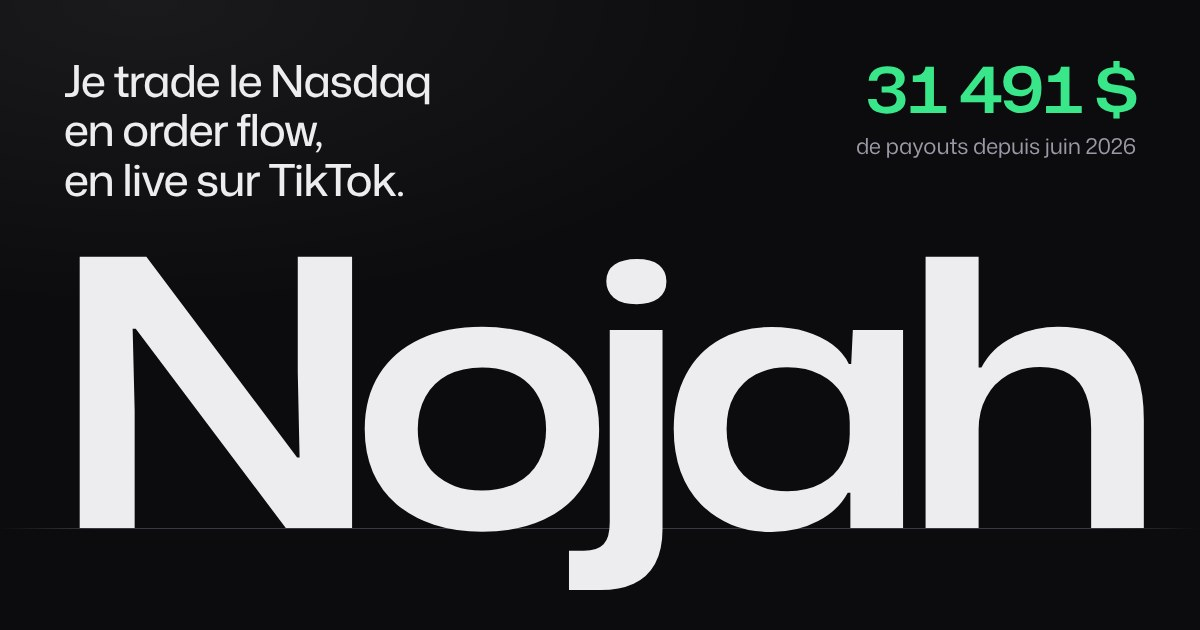
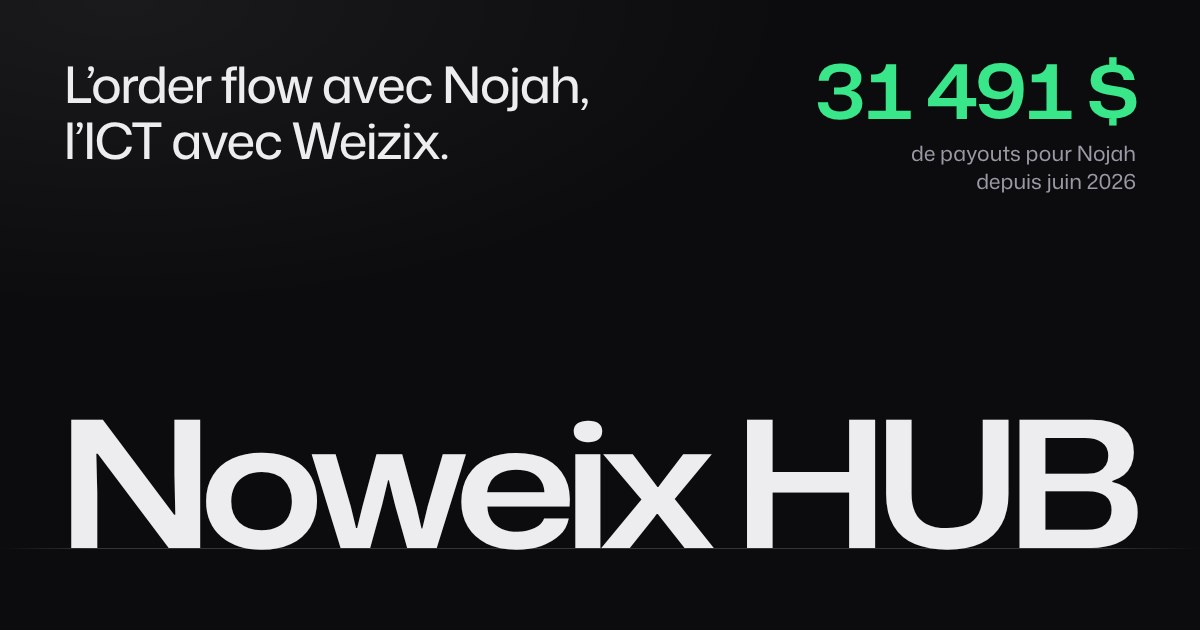
Le site devient Noweix HUB, avec Nojah (order flow) et Weizix (ICT)
- Nom Noweix HUB dans l'onglet, l'en-tête, le grand nom (sur deux lignes sur téléphone), la communauté Telegram et le pied de page ; même lien.
- En haut : « L'order flow avec Nojah, l'ICT avec Weizix ».
- Les parties de Johan sont à son nom : ses payouts, ses certificats, le lien FTMO, le clipping de ses lives, sa série et ses vidéos.
- « Qui je suis » devient « Qui on est », avec Nojah et Weizix.
- Nouvelle image de partage (og.jpg), README et ancien lien de l'aperçu mis à jour.

Claude-Session: https://claude.ai/code/session_01LeMKDTQYz8SVkbojz6z9WF

diff --git a/index.html b/index.html
@@ -3,8 +3,8 @@
 <head>
 <meta charset="utf-8">
 <meta name="viewport" content="width=device-width, initial-scale=1, viewport-fit=cover">
-<title>Nojah, trader funded</title>
-<meta name="description" content="Je trade le Nasdaq en order flow, en live sur TikTok. 31 491 $ de payouts depuis juin 2026. Rejoins Nojah HUB, ma communauté sur Telegram.">
+<title>Noweix HUB, avec Nojah et Weizix</title>
+<meta name="description" content="L’order flow avec Nojah, l’ICT avec Weizix. Nojah trade le Nasdaq en live sur TikTok : 31 491 $ de payouts depuis juin 2026. Rejoins Noweix HUB, notre communauté sur Telegram.">
 <link rel="canonical" href="https://azulixnq.github.io/nojah/">
 <meta name="theme-color" content="#0C0C0F">
 <meta name="color-scheme" content="dark">
@@ -12,12 +12,12 @@
 <meta property="og:type" content="website">
 <meta property="og:locale" content="fr_FR">
 <meta property="og:url" content="https://azulixnq.github.io/nojah/">
-<meta property="og:title" content="Nojah, trader funded">
-<meta property="og:description" content="Je trade le Nasdaq en order flow, en live sur TikTok. Rejoins Nojah HUB, ma communauté sur Telegram.">
+<meta property="og:title" content="Noweix HUB, avec Nojah et Weizix">
+<meta property="og:description" content="L’order flow avec Nojah, l’ICT avec Weizix. Rejoins Noweix HUB, notre communauté sur Telegram.">
 <meta property="og:image" content="https://azulixnq.github.io/nojah/og.jpg">
 <meta property="og:image:width" content="1200">
 <meta property="og:image:height" content="630">
-<meta property="og:image:alt" content="Nojah : je trade le Nasdaq en order flow, en live sur TikTok.">
+<meta property="og:image:alt" content="Noweix HUB : l’order flow avec Nojah, l’ICT avec Weizix.">
 <meta name="twitter:card" content="summary_large_image">
 <link rel="icon" href="favicon.svg" type="image/svg+xml">
 <link rel="apple-touch-icon" href="apple-touch-icon.png">
@@ -51,8 +51,9 @@
   --maxw: 1520px;
   --head: 64px;
   --sec: clamp(80px, 9vw, 152px);
-  /* taille du nom : toute la largeur, sans jamais dépasser la hauteur de l’écran (jambage du j compris) */
-  --name: clamp(84px, min((min(100vw, var(--maxw)) - 2 * var(--gutter) - 16px) / 2.9, (82svh - var(--head) - 100px) / 1.145), 600px);
+  /* taille du nom : « Noweix HUB » (6,1 em) sur toute la largeur, sans jamais dépasser la hauteur de l’écran ;
+     sur téléphone, il passe sur deux lignes (voir « petits écrans ») */
+  --name: clamp(56px, min((min(100vw, var(--maxw)) - 2 * var(--gutter) - 16px) / 6.1, (82svh - var(--head) - 100px) / 1.145), 600px);
   --ease: cubic-bezier(.16, 1, .3, 1);
   color-scheme: dark;
 }
@@ -127,6 +128,7 @@ button.btn { cursor: pointer; }
   margin-right: auto;
   font-size: 20px; font-weight: 600; font-stretch: 125%;
   letter-spacing: -.03em; line-height: 1; text-decoration: none;
+  white-space: nowrap;
 }
 .social { display: flex; gap: 2px; margin: 0; padding: 0; list-style: none; }
 .social a {
@@ -187,6 +189,7 @@ button.btn { cursor: pointer; }
 .hero-copy > :nth-child(2) { animation-delay: .62s; }
 @keyframes draw { from { transform: scaleX(0); } }
 @keyframes rise { from { transform: translateY(1.35em); } }
+@keyframes rise2 { from { transform: translateY(2.3em); } }
 @keyframes fade { from { opacity: 0; transform: translateY(12px); } }
 
 /* ---------- sections ---------- */
@@ -412,7 +415,9 @@ html.has-viewer .wall-row.is-on .wall-track { animation-play-state: paused; }
 .p-handle { grid-column: 2; color: var(--muted); font-size: 15px; }
 .profiles a:hover .p-name { text-decoration: underline; text-decoration-thickness: 1px; text-underline-offset: 5px; }
 
-/* ---------- qui je suis ---------- */
+/* ---------- qui on est ---------- */
+.duo { display: grid; gap: 56px 32px; }
+.who-name { margin-bottom: 16px; font-size: clamp(24px, 1vw + 18px, 32px); font-weight: 560; font-stretch: 112%; letter-spacing: -.025em; line-height: 1.15; }
 .facts { display: grid; margin: 0; border-top: 1px solid var(--line); }
 .facts > div { padding: 20px 0; border-bottom: 1px solid var(--line); }
 .facts dt { color: var(--faint); font-size: 14px; }
@@ -464,6 +469,8 @@ html.has-viewer { overflow: hidden; }
   .profiles li + li a { border-left: 1px solid var(--line); }
   .profiles li:first-child a { padding-left: 0; }
   .facts { grid-template-columns: repeat(3, minmax(0, 1fr)); }
+  .duo { grid-template-columns: repeat(2, minmax(0, 1fr)); column-gap: clamp(32px, 4vw, 72px); }
+  .who .facts { grid-template-columns: repeat(2, minmax(0, 1fr)); }
 }
 @media (min-width: 960px) {
   .serie-grid { grid-template-columns: minmax(0, 1fr) auto; align-items: start; gap: clamp(56px, 8vw, 160px); }
@@ -502,6 +509,12 @@ html.has-viewer { overflow: hidden; }
   .bgwall { --wall-w: 160px; }
   .bgwall-rows { opacity: .26; }
 }
+@media (max-width: 639px) {
+  :root { --name: clamp(60px, (100vw - 2 * var(--gutter) - 16px) / 3.7, 240px); }
+  .name { line-height: .9; }
+  .name-w { display: block; }
+  .name-text { animation-name: rise2; }
+}
 @media (max-width: 560px) {
   body { font-size: 16px; }
   .plot-wrap { padding-right: 66px; }
@@ -513,7 +526,7 @@ html.has-viewer { overflow: hidden; }
   .ep p { grid-column: 1; }
   .end .btn { flex: 1 1 100%; }
 }
-@media (max-width: 380px) {
+@media (max-width: 440px) {
   .top .btn-text { display: none; }
   .top .btn { padding: 8px 11px; }
 }
@@ -545,34 +558,34 @@ html.has-viewer { overflow: hidden; }
 
 <header class="top">
   <div class="wrap top-in">
-    <a class="brand" href="#haut">Nojah</a>
-    <nav aria-label="Mes réseaux">
+    <a class="brand" href="#haut">Noweix&nbsp;HUB</a>
+    <nav aria-label="Les réseaux de Nojah">
       <ul class="social">
         <li><a href="https://www.tiktok.com/@nojahonorderflow" target="_blank" rel="noopener"><svg class="ico" aria-hidden="true"><use href="#i-tiktok"/></svg><span>TikTok</span></a></li>
         <li><a href="https://www.instagram.com/fx_nojah" target="_blank" rel="noopener"><svg class="ico" aria-hidden="true"><use href="#i-instagram"/></svg><span>Instagram</span></a></li>
         <li><a href="https://www.youtube.com/@FXJohanBDX" target="_blank" rel="noopener"><svg class="ico" aria-hidden="true"><use href="#i-youtube"/></svg><span>YouTube</span></a></li>
       </ul>
     </nav>
-    <a class="btn btn-main" href="https://t.me/+zSf9D4ee_4w5NzM0" target="_blank" rel="noopener" aria-label="Rejoindre Nojah HUB, ma communauté sur Telegram"><svg class="ico" aria-hidden="true"><use href="#i-telegram"/></svg><span class="btn-text">Nojah HUB</span></a>
+    <a class="btn btn-main" href="https://t.me/+zSf9D4ee_4w5NzM0" target="_blank" rel="noopener" aria-label="Rejoindre Noweix HUB, notre communauté sur Telegram"><svg class="ico" aria-hidden="true"><use href="#i-telegram"/></svg><span class="btn-text">Rejoindre</span></a>
   </div>
 </header>
 
 <main id="contenu">
-  <!-- Le mur : mes certificats Lucid Trading qui défilent lentement en fond, du haut de la page jusque sous la courbe.
+  <!-- Le mur : les certificats Lucid Trading de Nojah qui défilent lentement en fond, du haut de la page jusque sous la courbe.
        Le script le remplit à partir de la liste .certs (plus bas), qui reste la source des montants et des dates. -->
   <div class="bgwall" id="bgwall" aria-hidden="true" hidden><div class="bgwall-rows"></div></div>
 
   <section class="hero" id="haut" aria-labelledby="nom">
     <div class="wrap hero-grid">
-      <h1 class="name" id="nom"><span class="name-clip"><span class="name-text">Nojah</span></span></h1>
+      <h1 class="name" id="nom"><span class="name-clip"><span class="name-text"><span class="name-w">Noweix</span> <span class="name-w">HUB</span></span></span></h1>
       <div class="hero-copy">
-        <p class="lead">Je trade le Nasdaq en order&nbsp;flow, en&nbsp;live sur TikTok.</p>
+        <p class="lead">L’order&nbsp;flow avec Nojah, l’ICT avec Weizix.</p>
         <div class="hero-cta">
           <div class="actions">
-            <a class="btn btn-main" href="https://t.me/+zSf9D4ee_4w5NzM0" target="_blank" rel="noopener"><svg class="ico" aria-hidden="true"><use href="#i-telegram"/></svg>Rejoindre Nojah HUB</a>
+            <a class="btn btn-main" href="https://t.me/+zSf9D4ee_4w5NzM0" target="_blank" rel="noopener"><svg class="ico" aria-hidden="true"><use href="#i-telegram"/></svg>Rejoindre Noweix&nbsp;HUB</a>
             <a class="btn btn-line" href="https://discord.gg/zVJuSdCjSG" target="_blank" rel="noopener"><svg class="ico" aria-hidden="true"><use href="#i-discord"/></svg>Discord de la communauté</a>
           </div>
-          <p class="actions-note">Nojah HUB, c’est ma communauté sur Telegram.</p>
+          <p class="actions-note">Noweix&nbsp;HUB, c’est notre communauté sur Telegram.</p>
         </div>
       </div>
     </div>
@@ -580,24 +593,24 @@ html.has-viewer { overflow: hidden; }
 
   <section class="sec payouts" aria-labelledby="payouts-titre">
     <div class="wrap">
-      <h2 class="h2" id="payouts-titre">Mes payouts</h2>
+      <h2 class="h2" id="payouts-titre">Les payouts de Nojah</h2>
       <div class="pay-head">
         <p class="total"><span class="sr">31&nbsp;491&nbsp;$</span><span class="total-num" aria-hidden="true"><span class="ghost">31&nbsp;491&nbsp;$</span><span class="live" id="total-live">31&nbsp;491&nbsp;$</span></span></p>
         <p class="total-sub">de payouts reçus depuis juin&nbsp;2026, toutes prop firms confondues.</p>
       </div>
 
       <figure class="chart">
-        <figcaption class="chart-cap"><strong>Lucid Trading</strong><span>Cumul de mes 11&nbsp;payouts, du 11&nbsp;juin au 20&nbsp;août&nbsp;2026</span></figcaption>
+        <figcaption class="chart-cap"><strong>Lucid Trading</strong><span>Cumul de ses 11&nbsp;payouts, du 11&nbsp;juin au 20&nbsp;août&nbsp;2026</span></figcaption>
         <div class="plot-wrap">
           <div class="plot" id="plot" tabindex="0" role="group" aria-roledescription="graphique"
-               aria-label="Courbe du cumul de mes payouts Lucid Trading : 1 165 $ le 11 juin 2026, puis 28 991 $ au 20 août 2026. Utilise les flèches gauche et droite pour parcourir les 11 payouts."></div>
+               aria-label="Courbe du cumul des payouts Lucid Trading de Nojah : 1 165 $ le 11 juin 2026, puis 28 991 $ au 20 août 2026. Utilise les flèches gauche et droite pour parcourir les 11 payouts."></div>
         </div>
-        <p class="chart-note">Sur les <span class="money">31&nbsp;491&nbsp;$</span>, <span class="money">28&nbsp;991&nbsp;$</span> viennent de Lucid Trading, prouvés par mes 11&nbsp;certificats. Les <span class="money">2&nbsp;500&nbsp;$</span> restants viennent d’autres prop firms.</p>
+        <p class="chart-note">Sur les <span class="money">31&nbsp;491&nbsp;$</span>, <span class="money">28&nbsp;991&nbsp;$</span> viennent de Lucid Trading, prouvés par ses 11&nbsp;certificats. Les <span class="money">2&nbsp;500&nbsp;$</span> restants viennent d’autres prop firms.</p>
         <p class="chart-more" id="certs-more" hidden><button class="btn btn-line" type="button" id="certs-open">Voir les 11&nbsp;certificats</button></p>
       </figure>
 
       <div class="certs-head">
-        <h3 class="h3">Mes certificats Lucid Trading</h3>
+        <h3 class="h3">Ses certificats Lucid Trading</h3>
         <p>Ouvre un certificat pour le voir en grand.</p>
       </div>
       <!-- Captures de l’app Lucid Trading, seulement recadrées : les dates et montants viennent des certificats. -->
@@ -622,9 +635,9 @@ html.has-viewer { overflow: hidden; }
     <div class="wrap trio">
       <section class="cell" aria-labelledby="communaute-titre">
         <h2 class="h2" id="communaute-titre">La communauté</h2>
-        <p>Deux portes d’entrée&nbsp;: Nojah HUB, ma communauté sur Telegram, et le Discord de la communauté.</p>
+        <p>Deux portes d’entrée&nbsp;: Noweix&nbsp;HUB, notre communauté sur Telegram, et le Discord de la communauté.</p>
         <div class="cell-actions">
-          <a class="btn btn-main" href="https://t.me/+zSf9D4ee_4w5NzM0" target="_blank" rel="noopener"><svg class="ico" aria-hidden="true"><use href="#i-telegram"/></svg>Rejoindre Nojah HUB</a>
+          <a class="btn btn-main" href="https://t.me/+zSf9D4ee_4w5NzM0" target="_blank" rel="noopener"><svg class="ico" aria-hidden="true"><use href="#i-telegram"/></svg>Rejoindre Noweix&nbsp;HUB</a>
           <a class="btn btn-line" href="https://discord.gg/zVJuSdCjSG" target="_blank" rel="noopener"><svg class="ico" aria-hidden="true"><use href="#i-discord"/></svg>Discord de la communauté</a>
         </div>
       </section>
@@ -633,7 +646,7 @@ html.has-viewer { overflow: hidden; }
         <h2 class="h2" id="ftmo-titre">Passe funded toi aussi</h2>
         <p class="off" aria-hidden="true">−20&nbsp;%</p>
         <p class="off-what">sur ton challenge FTMO</p>
-        <p>Passe par mon lien et ton challenge te coûte 20&nbsp;% moins cher. J’ai validé les deux étapes du challenge FTMO, le Challenge et la Vérification, en novembre&nbsp;2026.</p>
+        <p>Passe par le lien de Nojah et ton challenge te coûte 20&nbsp;% moins cher. Nojah a validé les deux étapes du challenge FTMO, le Challenge et la Vérification, en novembre&nbsp;2026.</p>
         <div class="cell-actions">
           <a class="btn btn-line" href="https://join.ftmo.com/SnUMuuJKSUnsmcjlAEpE" target="_blank" rel="noopener sponsored">Profiter des −20&nbsp;%</a>
         </div>
@@ -641,8 +654,8 @@ html.has-viewer { overflow: hidden; }
       </section>
 
       <section class="cell" aria-labelledby="clips-titre">
-        <h2 class="h2" id="clips-titre">Clippe mes lives</h2>
-        <p>Je partage les rushs de mes lives sur mon serveur Discord Clipping FxNojah. Tu en fais des clips, tu les postes, et tu es payé selon tes vues.</p>
+        <h2 class="h2" id="clips-titre">Clippe les lives de Nojah</h2>
+        <p>Nojah partage les rushs de ses lives sur le serveur Discord Clipping FxNojah. Tu en fais des clips, tu les postes, et tu es payé selon tes vues.</p>
         <ol class="steps">
           <li><span><strong>Rejoins le serveur</strong>, c’est gratuit.</span></li>
           <li><span><strong>Fais vérifier ton compte</strong> en ouvrant un ticket.</span></li>
@@ -659,12 +672,12 @@ html.has-viewer { overflow: hidden; }
     <div class="wrap serie-grid">
       <div class="serie-copy">
         <h2 class="h2" id="serie-titre">1&nbsp;week-end =&nbsp;1&nbsp;setup order&nbsp;flow</h2>
-        <p class="intro">Ma série order flow&nbsp;: chaque week-end, un setup expliqué en une vidéo.</p>
+        <p class="intro">La série order flow de Nojah&nbsp;: chaque week-end, un setup expliqué en une vidéo.</p>
         <ol class="episodes">
           <li class="ep">
             <span class="ep-num">Épisode 1</span>
             <span class="ep-title">L’absorption</span>
-            <p>Beaucoup d’achats au marché, et pourtant le prix ne passe pas&nbsp;: un vendeur à limite encaisse tout. Je te montre comment la repérer et comment trier les signaux.</p>
+            <p>Beaucoup d’achats au marché, et pourtant le prix ne passe pas&nbsp;: un vendeur à limite encaisse tout. Nojah te montre comment la repérer et comment trier les signaux.</p>
           </li>
           <li class="ep">
             <span class="ep-num">Épisode 2</span>
@@ -685,8 +698,8 @@ html.has-viewer { overflow: hidden; }
 
   <section class="sec videos" aria-labelledby="videos-titre">
     <div class="wrap">
-      <h2 class="h2" id="videos-titre">Mes vidéos</h2>
-      <p class="intro">Je suis en live sur TikTok. Retrouve aussi mes vidéos sur YouTube et Instagram.</p>
+      <h2 class="h2" id="videos-titre">Les vidéos de Nojah</h2>
+      <p class="intro">Nojah est en live sur TikTok. Retrouve aussi ses vidéos sur YouTube et Instagram.</p>
       <ul class="yt-list" id="yt-list" hidden></ul>
       <ul class="profiles">
         <li><a href="https://www.tiktok.com/@nojahonorderflow" target="_blank" rel="noopener"><svg class="ico" aria-hidden="true"><use href="#i-tiktok"/></svg><span class="p-name">TikTok</span><span class="p-handle">@nojahonorderflow</span></a></li>
@@ -698,18 +711,30 @@ html.has-viewer { overflow: hidden; }
 
   <section class="sec moi" aria-labelledby="moi-titre">
     <div class="wrap">
-      <h2 class="h2" id="moi-titre">Qui je suis</h2>
-      <dl class="facts">
-        <div><dt>Mon marché</dt><dd>Le Nasdaq, en futures&nbsp;: NQ et MNQ</dd></div>
-        <div><dt>Ma méthode</dt><dd>L’order flow</dd></div>
-        <div><dt>En live</dt><dd>Sur TikTok, pendant que je trade</dd></div>
-        <div><dt>Comptes funded</dt><dd>Lucid Trading, avec des payouts depuis juin&nbsp;2026, et Topstep</dd></div>
-        <div><dt>FTMO</dt><dd>Challenge et Vérification validés en novembre&nbsp;2026</dd></div>
-        <div><dt>En ce moment</dt><dd>La série «&nbsp;1 week-end = 1 setup order flow&nbsp;»</dd></div>
-      </dl>
+      <h2 class="h2" id="moi-titre">Qui on est</h2>
+      <div class="duo">
+        <section class="who" aria-labelledby="nojah-titre">
+          <h3 class="who-name" id="nojah-titre">Nojah</h3>
+          <dl class="facts">
+            <div><dt>Son marché</dt><dd>Le Nasdaq, en futures&nbsp;: NQ et MNQ</dd></div>
+            <div><dt>Sa méthode</dt><dd>L’order flow</dd></div>
+            <div><dt>En live</dt><dd>Sur TikTok, pendant qu’il trade</dd></div>
+            <div><dt>Comptes funded</dt><dd>Lucid Trading, avec des payouts depuis juin&nbsp;2026, et Topstep</dd></div>
+            <div><dt>FTMO</dt><dd>Challenge et Vérification validés en novembre&nbsp;2026</dd></div>
+            <div><dt>En ce moment</dt><dd>La série «&nbsp;1 week-end = 1 setup order flow&nbsp;»</dd></div>
+          </dl>
+        </section>
+        <section class="who" aria-labelledby="weizix-titre">
+          <h3 class="who-name" id="weizix-titre">Weizix</h3>
+          <dl class="facts">
+            <div><dt>Sa méthode</dt><dd>L’ICT (Inner Circle Trader)</dd></div>
+            <div><dt>L’ICT, en bref</dt><dd>La liquidité, la structure du marché et les déséquilibres de prix (fair value gaps)</dd></div>
+          </dl>
+        </section>
+      </div>
       <div class="end">
-        <p>Envie de suivre la suite&nbsp;? <span>Rejoins Nojah HUB, ma communauté sur Telegram.</span></p>
-        <a class="btn btn-main" href="https://t.me/+zSf9D4ee_4w5NzM0" target="_blank" rel="noopener"><svg class="ico" aria-hidden="true"><use href="#i-telegram"/></svg>Rejoindre Nojah HUB</a>
+        <p>Envie de suivre la suite&nbsp;? <span>Rejoins Noweix&nbsp;HUB, notre communauté sur Telegram.</span></p>
+        <a class="btn btn-main" href="https://t.me/+zSf9D4ee_4w5NzM0" target="_blank" rel="noopener"><svg class="ico" aria-hidden="true"><use href="#i-telegram"/></svg>Rejoindre Noweix&nbsp;HUB</a>
       </div>
     </div>
   </section>
@@ -717,9 +742,9 @@ html.has-viewer { overflow: hidden; }
 
 <footer class="foot">
   <div class="wrap foot-in">
-    <p>Le trading comporte un risque élevé de perte en capital. Je partage mon parcours&nbsp;: ce ne sont pas des conseils en investissement, et les résultats passés ne garantissent pas les résultats futurs.</p>
+    <p>Le trading comporte un risque élevé de perte en capital. Nojah et Weizix partagent leur parcours&nbsp;: ce ne sont pas des conseils en investissement, et les résultats passés ne garantissent pas les résultats futurs.</p>
     <p>Les liens FTMO de cette page sont des liens affiliés. FTMO, Lucid Trading et Topstep sont des marques de leurs propriétaires.</p>
-    <p>© 2026 Nojah. Site hébergé par GitHub Pages.</p>
+    <p>© 2026 Noweix&nbsp;HUB. Site hébergé par GitHub Pages.</p>
   </div>
 </footer>
 
@@ -742,7 +767,7 @@ html.has-viewer { overflow: hidden; }
 
 <script>
 /* ==================================================================
-   MES DERNIÈRES VIDÉOS YOUTUBE
+   LES DERNIÈRES VIDÉOS YOUTUBE DE NOJAH
    Ajoute ici jusqu’à 3 vidéos, la plus récente en premier :
      id     : les 11 caractères après « watch?v= » ou « /shorts/ » dans le lien
      titre  : le titre exact de la vidéo
@@ -1141,7 +1166,7 @@ var VIDEOS_YOUTUBE = [
     });
     list.hidden = false;
     var vt = document.getElementById("videos-titre");
-    if (vt) vt.textContent = "Mes dernières vidéos";
+    if (vt) vt.textContent = "Les dernières vidéos de Nojah";
   }
 })();
 </script>

diff --git a/apercu/index.html b/apercu/index.html
@@ -3,14 +3,14 @@
 <head>
 <meta charset="utf-8">
 <meta name="viewport" content="width=device-width, initial-scale=1">
-<title>Nojah</title>
+<title>Noweix HUB</title>
 <meta name="robots" content="noindex">
 <link rel="canonical" href="https://azulixnq.github.io/nojah/">
 <meta http-equiv="refresh" content="0; url=../">
 <style>html,body{margin:0;background:#0C0C0F;color:#EDEDF0;font:16px/1.5 system-ui,sans-serif}p{padding:24px}a{color:inherit}</style>
 </head>
 <body>
-<p>Le site de Nojah a déménagé : <a href="../">azulixnq.github.io/nojah</a>.</p>
+<p>Le site Noweix HUB a déménagé : <a href="../">azulixnq.github.io/nojah</a>.</p>
 <script>location.replace('../');</script>
 </body>
 </html>

diff --git a/README.md b/README.md
@@ -1,10 +1,10 @@
-# Site de Nojah
+# Noweix HUB
 
-Le site de Nojah, trader funded : https://azulixnq.github.io/nojah/
+Le site de Noweix HUB, avec Nojah (order flow) et Weizix (ICT) : https://azulixnq.github.io/nojah/ (le lien n'a pas changé).
 
 - `index.html` : la page (le style et le script sont dedans, aucun service extérieur).
-- `img/certificats/` : ses 11 certificats de payout Lucid Trading, recadrés depuis ses captures (aucun n'est refait).
-- `video/` : l'épisode 1 de la série (l'absorption, nouveau style) et son affiche.
+- `img/certificats/` : les 11 certificats de payout Lucid Trading de Nojah, recadrés depuis ses captures (aucun n'est refait).
+- `video/` : l'épisode 1 de la série de Nojah (l'absorption, nouveau style) et son affiche.
 - `fonts/` : la police du site (licence SIL Open Font License 1.1, voir `fonts/OFL.txt`).
 - `og.jpg` : l'image qui s'affiche quand on partage le lien. `favicon.svg` et `apple-touch-icon.png` : les icônes.
 - `apercu/` : l'ancien lien de l'aperçu, qui renvoie vers la page.
